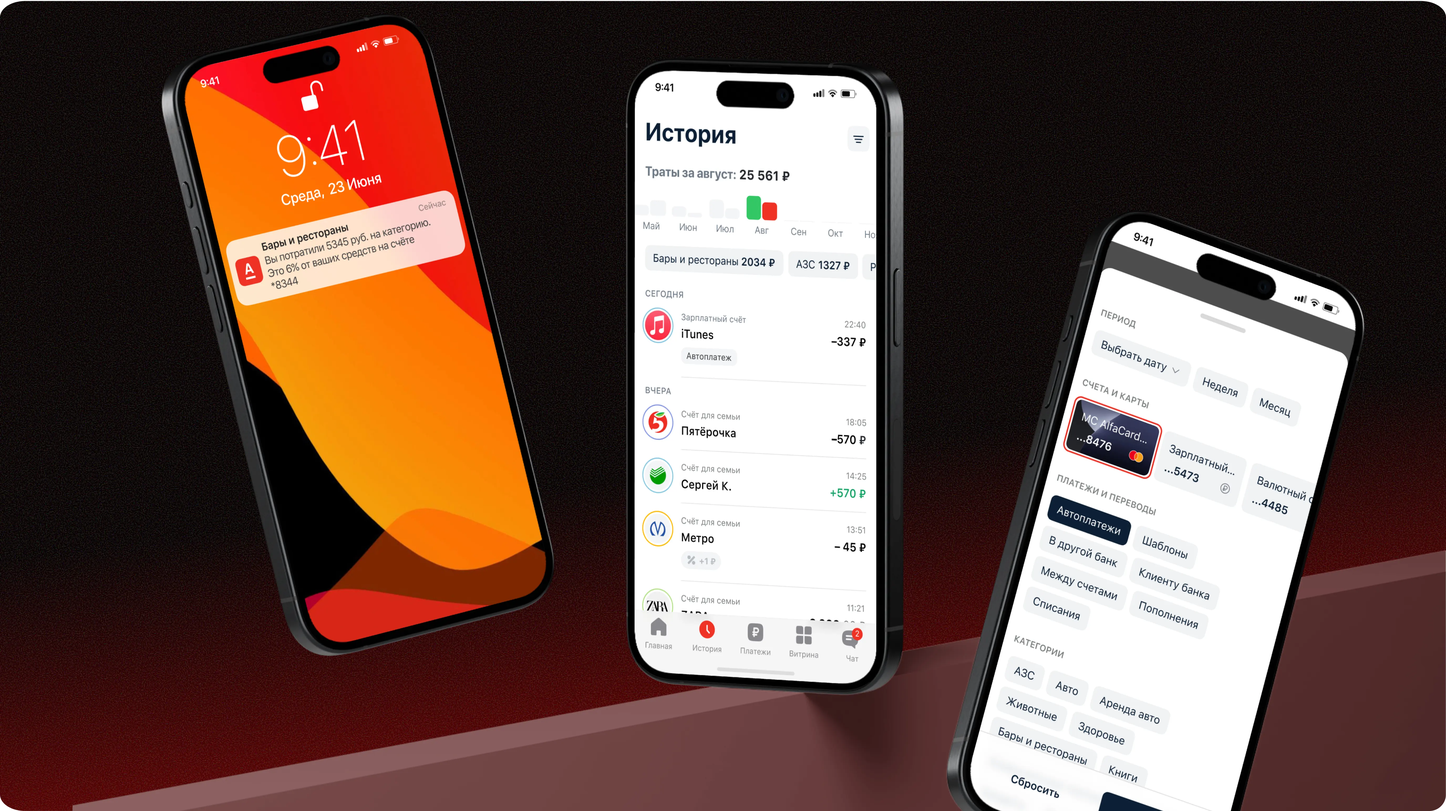
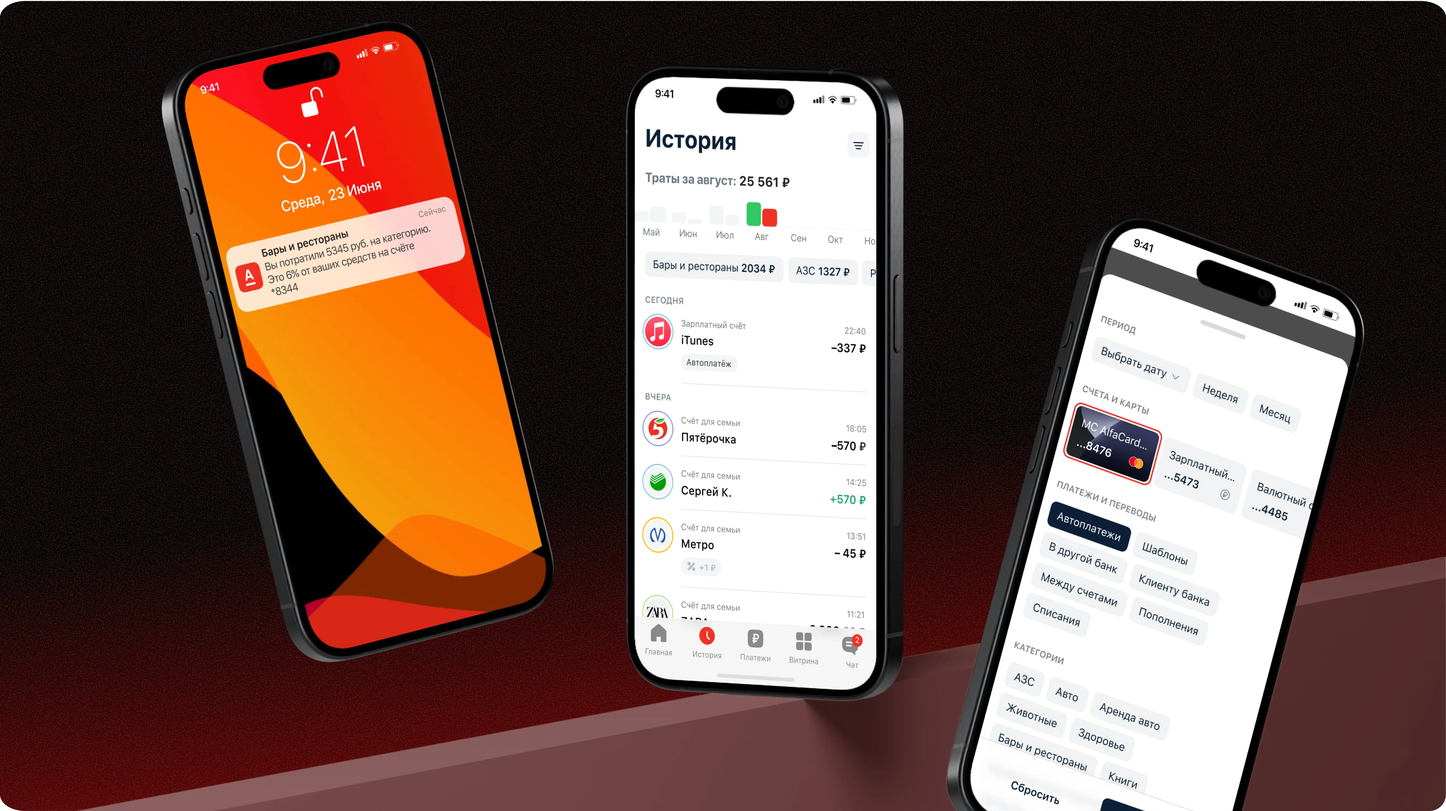
Add Alfa-Bank assets, update main card image and link to case

diff --git a/index.html b/index.html
@@ -99,7 +99,7 @@
 
       </div>
 
-      <a class="card card--full" href="#" data-modal="https://www.figma.com/proto/Ku4b8JugSI8FalOk3FDdmU/Bogdan-Alekseev?node-id=12950-17341&viewport=-862%2C245%2C0.14&t=O37Abt0sPDjIS7mI-9&scaling=min-zoom&content-scaling=fixed&starting-point-node-id=12950%3A17341&show-proto-sidebar=1&page-id=12950%3A16626">
+      <a class="card card--full" href="/alfabank/">
         <div class="card-image" style="--glass: rgba(107,86,86,0.70)">
           <img src="images/alfabank.webp" alt="Альфа-Банк">
           <div class="card-tags">
